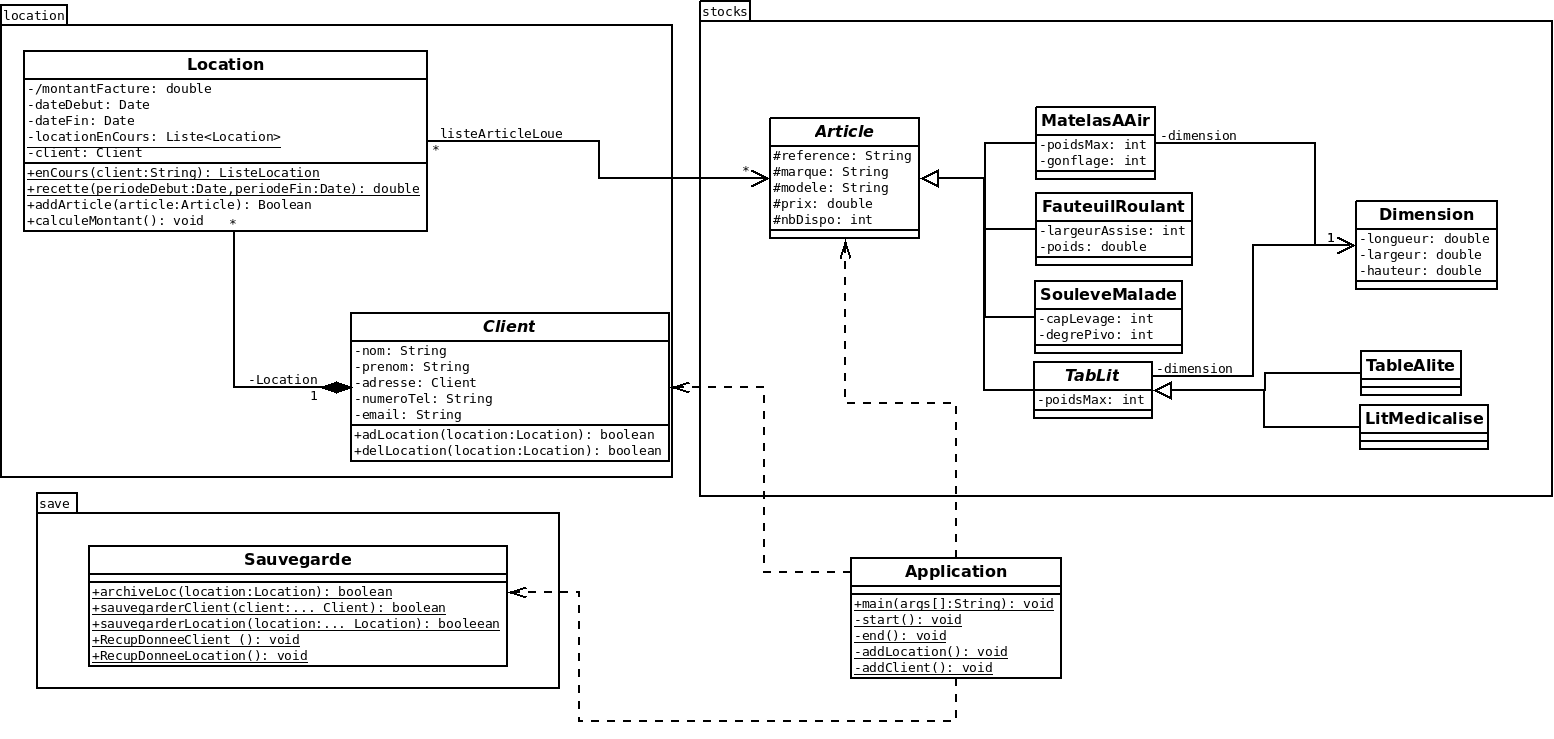
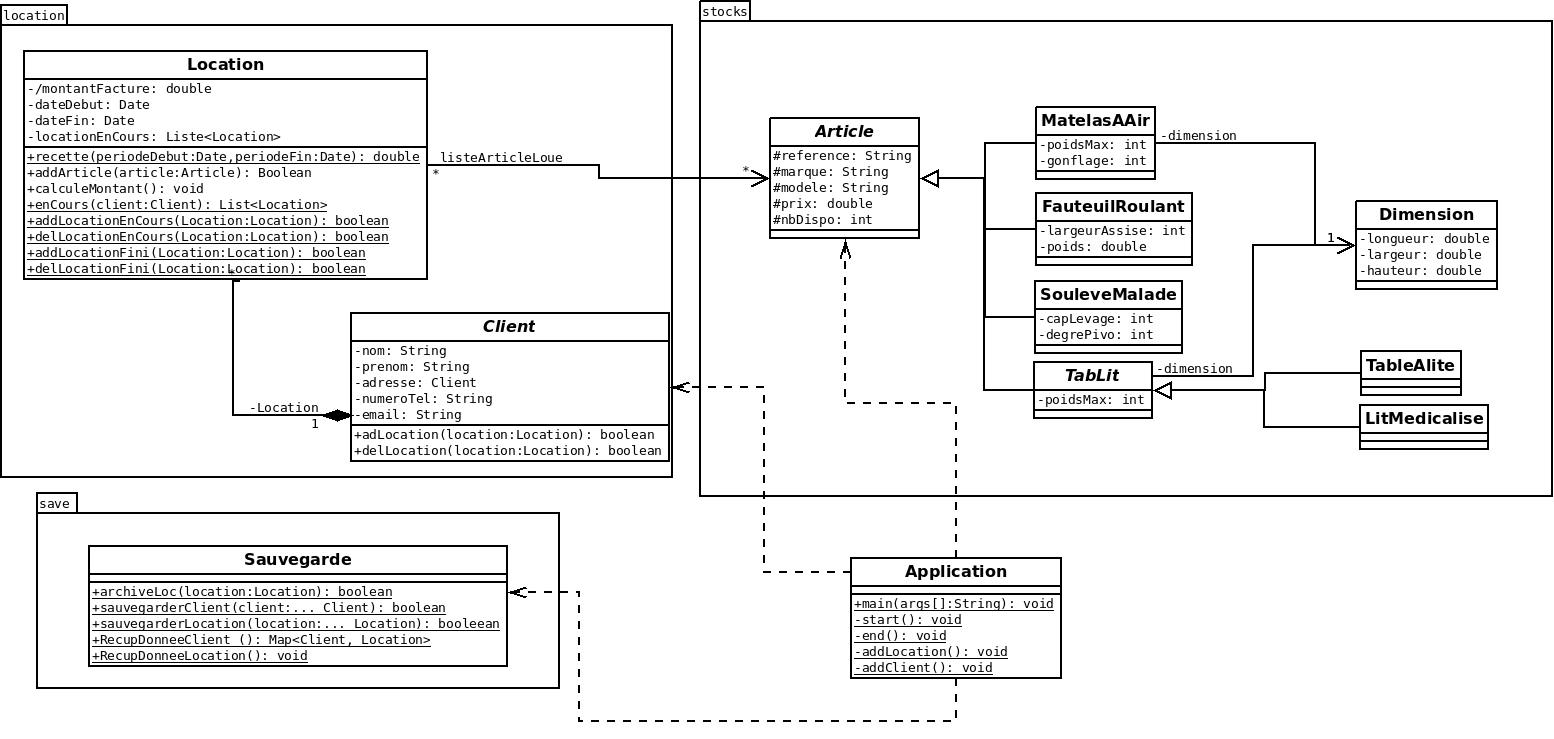
update code & diagramme

Changed region(s): [[0.0, 0.1556, 0.3707, 0.4046], [0.1544, 0.498, 0.2162, 0.5913], [0.1853, 0.8403, 0.278, 0.8714]]

diff --git a/src/main/java/fr/nicoPaul/Application.java b/src/main/java/fr/nicoPaul/Application.java
@@ -95,13 +95,13 @@ public class Application {
         while (run){
             System.out.println(
                     "---------- choix ----------\n"+
-                    "   0 => end\n"+
+                    "   0 => Quitter\n"+
                     "   1 => Liste des articles\n"+
-                    "   2 => Status stocks\n"+
+                    "   2 => Statut du stocks\n"+
                     "   3 => Liste des locations pour un client\n"+
                     "   4 => Ajouter un client\n"+
                     "   5 => Ajouter Location\n"+
-                    "   6 => save");
+                    "   6 => Archiver");
             int choix = getIntInput("");
             switch (choix){
                 case 0:
@@ -404,14 +404,14 @@ public class Application {
         while (run){
             System.out.println("--------- listArticle ---------\n"+
                     "   0  => out\n"+
-                    "   1  => Type croissant\n"+
-                    "   2  => Type decroissant\n"+
-                    "   3  => Referance croissant\n"+
-                    "   4  => Referance decroissant\n"+
-                    "   5  => Marque croissant\n"+
-                    "   6  => Marque decroissant\n"+
-                    "   7  => Modele croissant\n"+
-                    "   8  => Modele decroissant\n"+
+                    "   1  => Type de l'article dans l'ordre\n"+
+                    "   2  => Type de l'article dans l'ordre inverse\n"+
+                    "   3  => Reference dans l'ordre\n"+
+                    "   4  => Reference dans l'ordre inverse\n"+
+                    "   5  => Marque dans l'ordre\n"+
+                    "   6  => Marque dans l'ordre inverse\n"+
+                    "   7  => Modele dans l'ordre\n"+
+                    "   8  => Modele dans l'ordre inverse\n"+
                     "   9  => Prix croissant\n"+
                     "   10 => Prix decroissant");
             int choix = getIntInput("");

diff --git a/src/main/java/fr/nicoPaul/location/Location.java b/src/main/java/fr/nicoPaul/location/Location.java
@@ -25,7 +25,6 @@ public class Location implements java.io.Serializable{
     private List<Article> listeArticleLoue;
     private Calendar dateDebut;
     private Calendar dateFin;
-//    private Client client; //TODO del diagramme
 
     // transient => non serializable
     private transient static List<Location> locationEnCours = new ArrayList<>();
@@ -60,7 +59,7 @@ public class Location implements java.io.Serializable{
     //-----------------------------
 
     public static List<Location> enCours(Client client){
-        return null; //TODO del diagramme
+        return null;
     }
 
     public static double recette(Calendar debut, Calendar fin){
@@ -149,11 +148,10 @@ public class Location implements java.io.Serializable{
     }
 
     public Client getClient() {
-        return null; //TODO del diagramme
+        return null;
     }
 
     public void setClient(Client client) {
-        //TODO del diagramme
     }
 
     public static List<Location> getLocationEnCours() {
@@ -172,22 +170,18 @@ public class Location implements java.io.Serializable{
         Location.locationFini = locationFini;
     }
 
-    //TODO add diagram
     public static boolean addLocationEnCour(Location location){
         return locationEnCours.add(location);
     }
 
-    //TODO add diagram
-    public static boolean delLocationEnCour(Location location){
+    public static boolean delLocationEnCours(Location location){
         return locationEnCours.remove(location);
     }
 
-    //TODO add diagram
     public static boolean addLocationfini(Location location){
         return locationFini.add(location);
     }
 
-    //TODO add diagram
     public static boolean delLocationFini(Location location){
         return locationFini.remove(location);
     }

diff --git a/src/main/java/fr/nicoPaul/save/Sauvegarde.java b/src/main/java/fr/nicoPaul/save/Sauvegarde.java
@@ -62,12 +62,7 @@ public class Sauvegarde {
         return ok;
     }
 
-    public static boolean sauvegarderLocation(Location ... locations){
-        //inutile car save dans client
-        return false;
-    }
 
-    //TODO change diagramme
     public static List<Client> recupDonneeClient(){
         List<Client> clients = new ArrayList<>();
         ObjectInputStream input = null;
@@ -92,12 +87,11 @@ public class Sauvegarde {
         return clients;
     }
 
-    //TODO change diagramme
     public static Map<Client, Location> recupDonneeLocation(){
         //inutile car save dans client
         return null;
     }
-
+    // TODO add
     public static boolean sauvegarderStocks(Article... articles){
         ObjectOutputStream output=null;
         boolean ok = true;
@@ -122,7 +116,7 @@ public class Sauvegarde {
         }
         return ok;
     }
-
+    // TODO add
     public static List<Article> recupDonneeStocks(){
         List<Article> articles = new ArrayList<>();
         ObjectInputStream input = null;
@@ -146,7 +140,7 @@ public class Sauvegarde {
         }
         return articles;
     }
-
+    // TODO add
     public static void upAll(){
         folder=urlCourante+File.separator+folder;
         File fileSave = new File(folder);

diff --git a/src/main/java/fr/nicoPaul/stocks/LitMedicalise.java b/src/main/java/fr/nicoPaul/stocks/LitMedicalise.java
@@ -10,7 +10,7 @@ package fr.nicoPaul.stocks;
 public class LitMedicalise extends TabLit {
 
     private static final long serialVersionUID = -2794976675098158048L;
-
+    // TODO add diagramme all classe article
     private static int nbDispo;
     private static int nbMax;
 

diff --git a/src/main/java/fr/nicoPaul/stocks/Article.java b/src/main/java/fr/nicoPaul/stocks/Article.java
@@ -134,6 +134,7 @@ public abstract class Article implements Serializable {
         Article.nbDispo = nbDispo;
     }
 
+  // todo add & sup
     public void addNbDispo(){
         Article.nbDispo++;
     }
